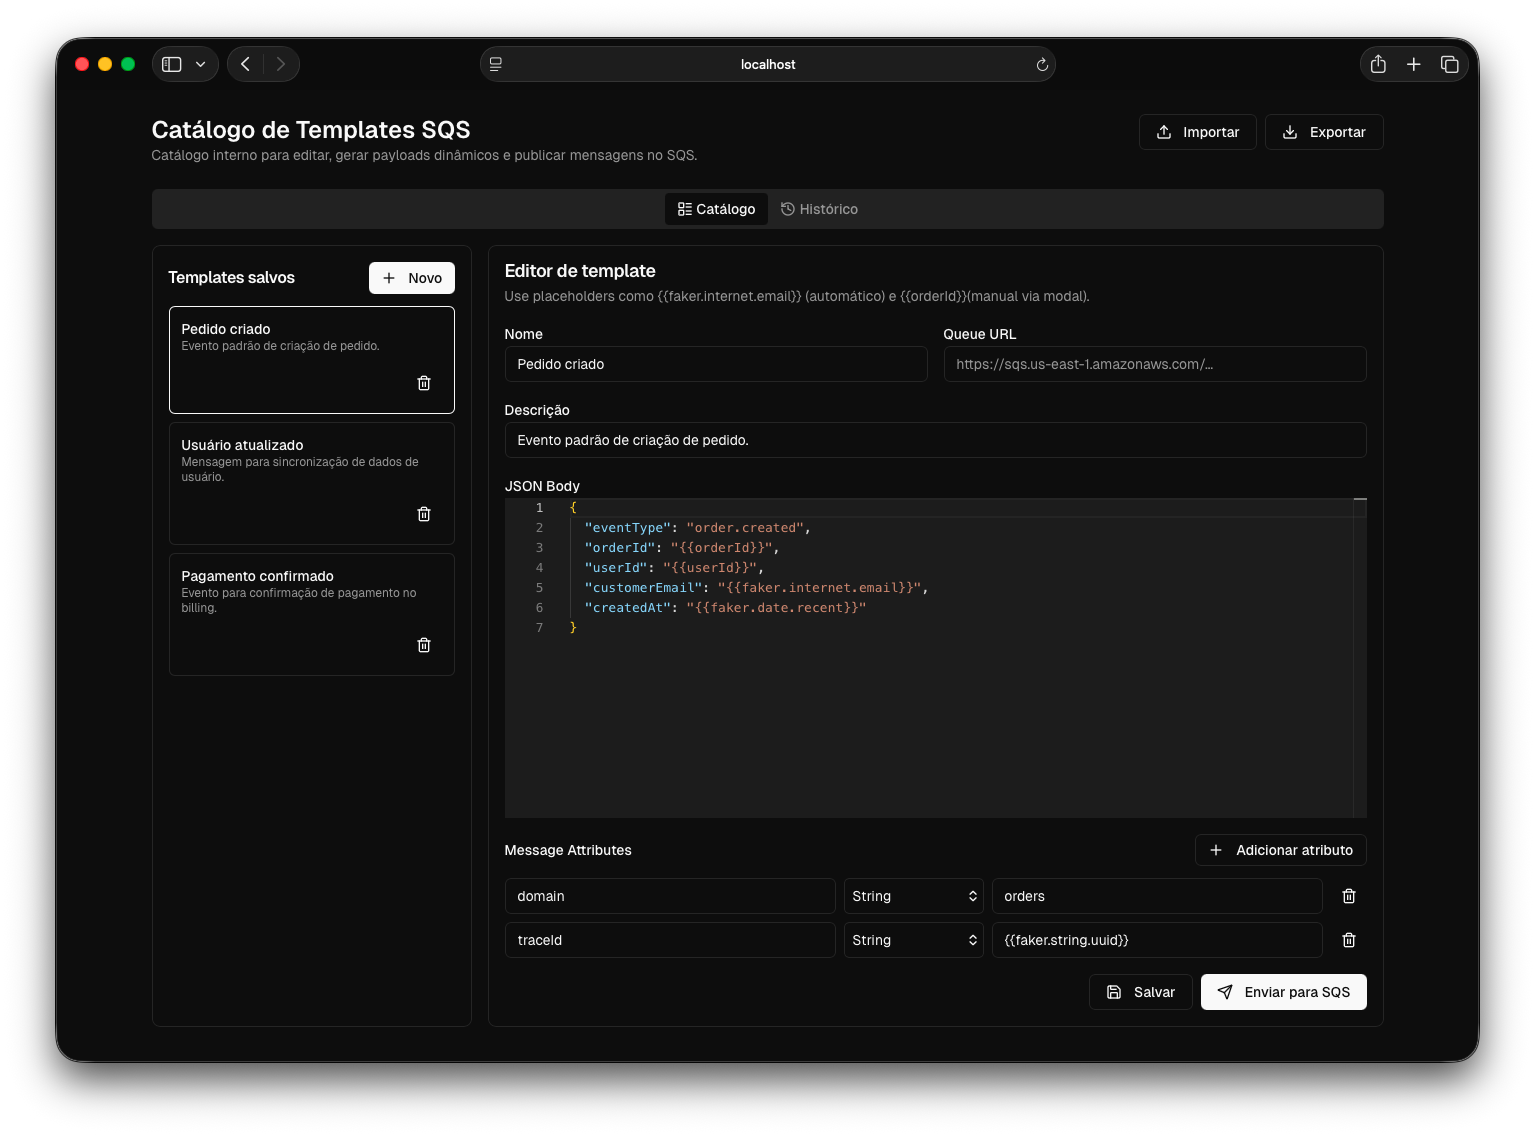
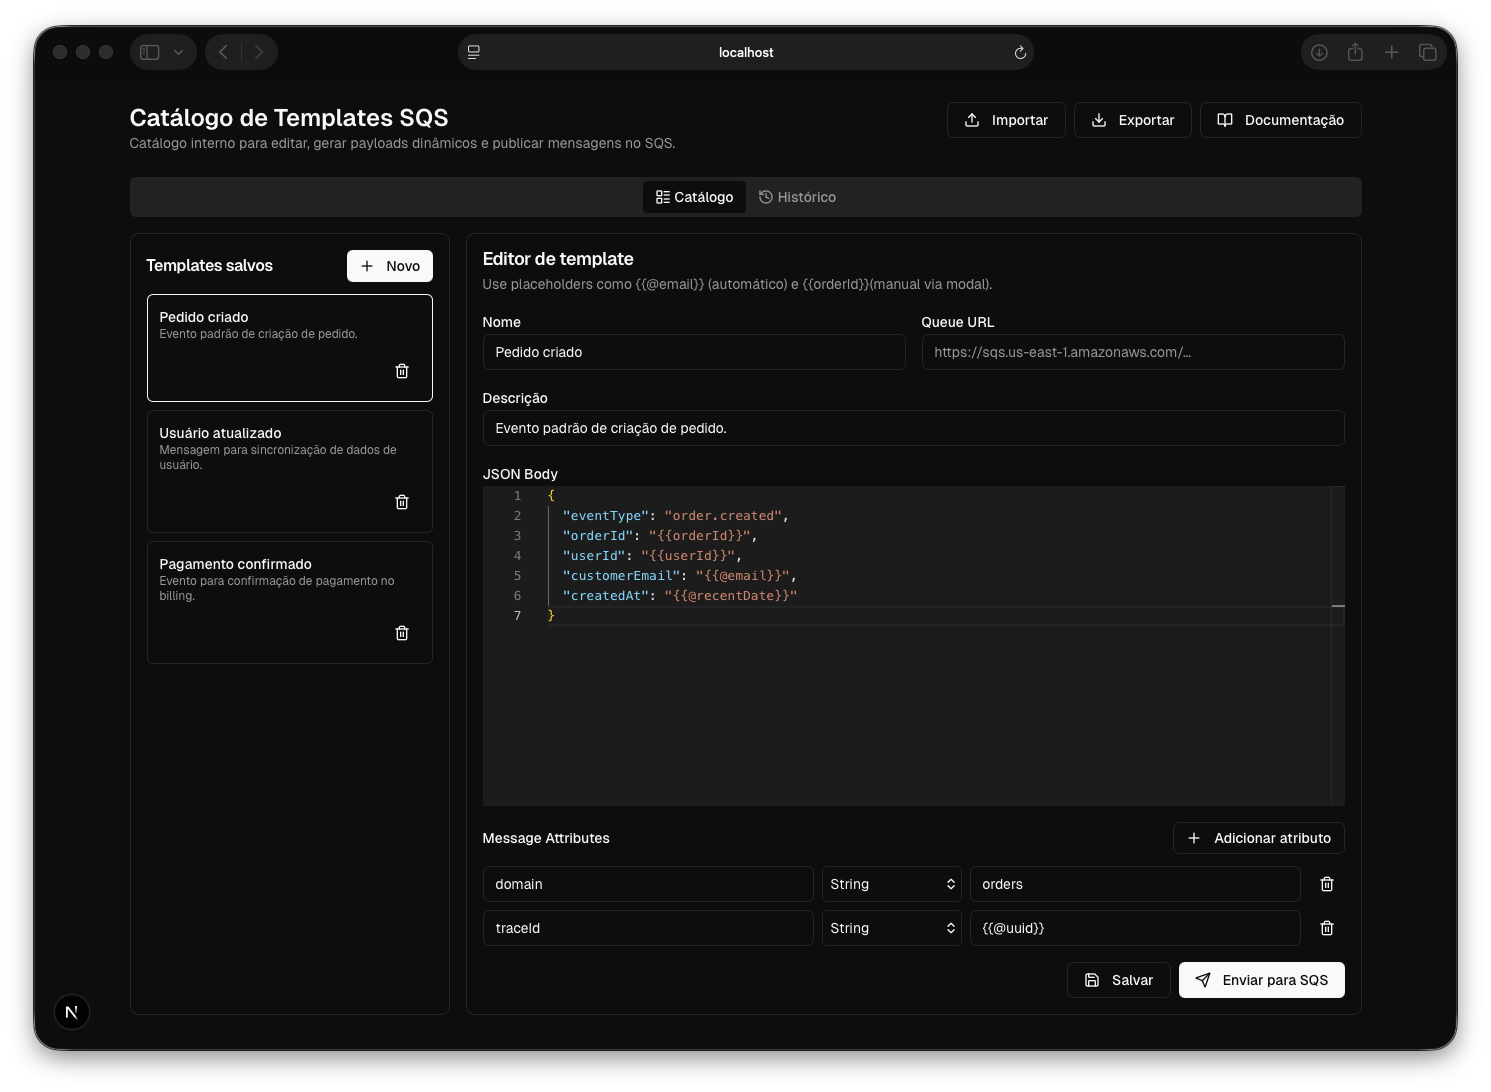
Update README.md to enhance feature descriptions and clarify usage instructions

diff --git a/README.md b/README.md
@@ -4,7 +4,9 @@ Uma aplicação web moderna desenvolvida para acelerar e padronizar o teste de m
 
 **Objetivo Central:** Eliminar o preenchimento manual, demorado e propenso a erros de payloads no console da AWS. Este app permite que desenvolvedores e QAs criem um catálogo centralizado de templates SQS, injetem dados mockados dinamicamente em tempo de execução e façam a publicação direta nas filas com apenas um clique.
 
-![Tela principal do SQS Template Catalog mostrando a lista de templates, o editor Monaco com um JSON contendo placeholders do Faker, e um modal para preenchimento de variáveis manuais.](./screenshots/catalog.png)
+📚 **Documentação interna:** acesse em [http://localhost:3000/docs](http://localhost:3000/docs)
+
+![Tela principal do SQS Template Catalog mostrando a lista de templates, o editor Monaco com placeholders dinâmicos, e um modal para preenchimento de variáveis manuais.](./screenshots/catalog.png)
 
 ---
 
@@ -12,10 +14,13 @@ Uma aplicação web moderna desenvolvida para acelerar e padronizar o teste de m
 
 * **📖 Gestão de Catálogo:** Crie, edite e organize templates de mensagens especificando a URL da fila, o corpo (JSON) e os `Message Attributes`.
 * **💻 Editor Avançado (Monaco):** O mesmo motor de edição do VS Code integrado na web, oferecendo validação de sintaxe JSON e highlight nativos.
-* **🎲 Geração de Dados Dinâmicos (Faker.js):** * Use placeholders mágicos no seu JSON (ex: `{{faker.internet.email}}`).
-  * **IntelliSense integrado:** O editor possui autocomplete sugerindo as funções do Faker enquanto você digita.
-  * O dado é gerado aleatoriamente no exato momento da publicação.
-* **✍ Variáveis Customizadas (Inputs Manuais):** Precisa testar um ID específico? Adicione `{{orderId}}` no JSON. O app interceptará o envio e abrirá um modal para você digitar o valor desejado.
+* **🎲 Geradores Automáticos (encapsulando Faker):** Use placeholders como `{{@email}}`, `{{@uuid}}` e `{{@isAtivo}}`.
+  * **IntelliSense integrado:** O Monaco sugere os geradores assim que você digita `@` dentro do placeholder.
+  * A lógica de geração fica centralizada no container interno de geradores.
+* **🧠 Tipagem Declarativa no Placeholder:** Você pode declarar o tipo em `{{nome:tipo}}` ou `{{@gerador:tipo}}` com `string`, `number` ou `boolean`.
+  * Ex.: `"idade": "{{idadeUsuario:number}}"` e `"ativo": "{{@isAtivo:boolean}}"`.
+  * O parser converte o tipo e remove aspas no payload final para `number` e `boolean`.
+* **✍ Variáveis Customizadas (Inputs Manuais):** Precisa testar um ID específico? Adicione `{{orderId}}` no JSON. O app intercepta o envio e abre modal para você digitar o valor (com input adequado ao tipo declarado).
 * **🕒 Histórico e Re-envio:** Um log local salva os últimos disparos, mostrando o payload final (já processado com os dados reais) e o status da AWS. Re-envie qualquer mensagem com um clique.
 * **🤝 Colaboração (Import/Export):** Exporte seu catálogo inteiro para um arquivo `.json` e compartilhe com o time. A importação faz um *merge* inteligente (baseado em IDs) para não apagar os templates que seus colegas já criaram localmente.
 
@@ -26,7 +31,7 @@ Uma aplicação web moderna desenvolvida para acelerar e padronizar o teste de m
 * **Frontend:** Next.js (App Router), React, Tailwind CSS
 * **UI/UX:** shadcn/ui, Lucide Icons
 * **Editor:** `@monaco-editor/react`
-* **Mock Data:** `@faker-js/faker`
+* **Mock Data:** `@faker-js/faker` (encapsulado no container de geradores)
 * **Integração:** AWS SDK para JavaScript (`@aws-sdk/client-sqs`)
 
 ---
@@ -42,7 +47,7 @@ Uma aplicação web moderna desenvolvida para acelerar e padronizar o teste de m
 1. **Clone o repositório:**
 
 ```bash
-git clone https://github.com/douglasgusson/sqs-template-catalog.git
+git clone [https://github.com/douglasgusson/sqs-template-catalog.git](https://github.com/douglasgusson/sqs-template-catalog.git)
 ```
 
 2. **Acesse a pasta do projeto e instale as dependências:**
@@ -67,7 +72,7 @@ _Nota: Se você utiliza perfis da AWS configurados na sua máquina (ex: em `~/.a
 
 ```bash
 npm run dev
-````
+```
 
 5. **Acesse a aplicação:**
 
@@ -78,9 +83,20 @@ Abra [http://localhost:3000](http://localhost:3000) no seu navegador.
 
 1. Criando o primeiro template: Clique em "Novo Template", dê um nome descritivo e cole a URL da sua fila SQS.
 
-1. Usando o Autocomplete: No campo do corpo da mensagem (JSON), comece a digitar `{"email": "{{faker.` e espere o editor sugerir as opções. Selecione a função desejada.
+1. Usando o Autocomplete: No campo do corpo da mensagem (JSON), comece a digitar `{"email": "{{@` e espere o editor sugerir os geradores disponíveis. Selecione a opção desejada.
 
-1. Publicando: Clique em "Publicar na Fila". Se houver variáveis manuais no seu JSON (como `{{userId}}`), preencha o modal que irá aparecer. Em instantes, um Toast de sucesso com o `MessageId` da AWS será exibido.
+1. Publicando: Clique em "Publicar na Fila". Se houver variáveis manuais no seu JSON (como `{{userId}}` ou `{{idadeUsuario:number}}`), preencha o modal que irá aparecer. Em instantes, um Toast de sucesso com o `MessageId` da AWS será exibido.
+
+1. Tipagem explícita no payload: para forçar tipos use `:number`, `:boolean` ou `:string` no placeholder. Exemplo completo:
+
+```json
+{
+  "idade": "{{idadeUsuario:number}}",
+  "ativo": "{{@isAtivo:boolean}}",
+  "codigo": "{{codigoAcesso}}",
+  "idString": "{{@uuid:string}}"
+}
+```
 
 1. Compartilhando com o time: Use o botão Exportar no topo da tela para baixar suas configurações e envie para a equipe. Eles só precisam clicar em Importar para ter acesso às mesmas mensagens em suas máquinas locais.
 
